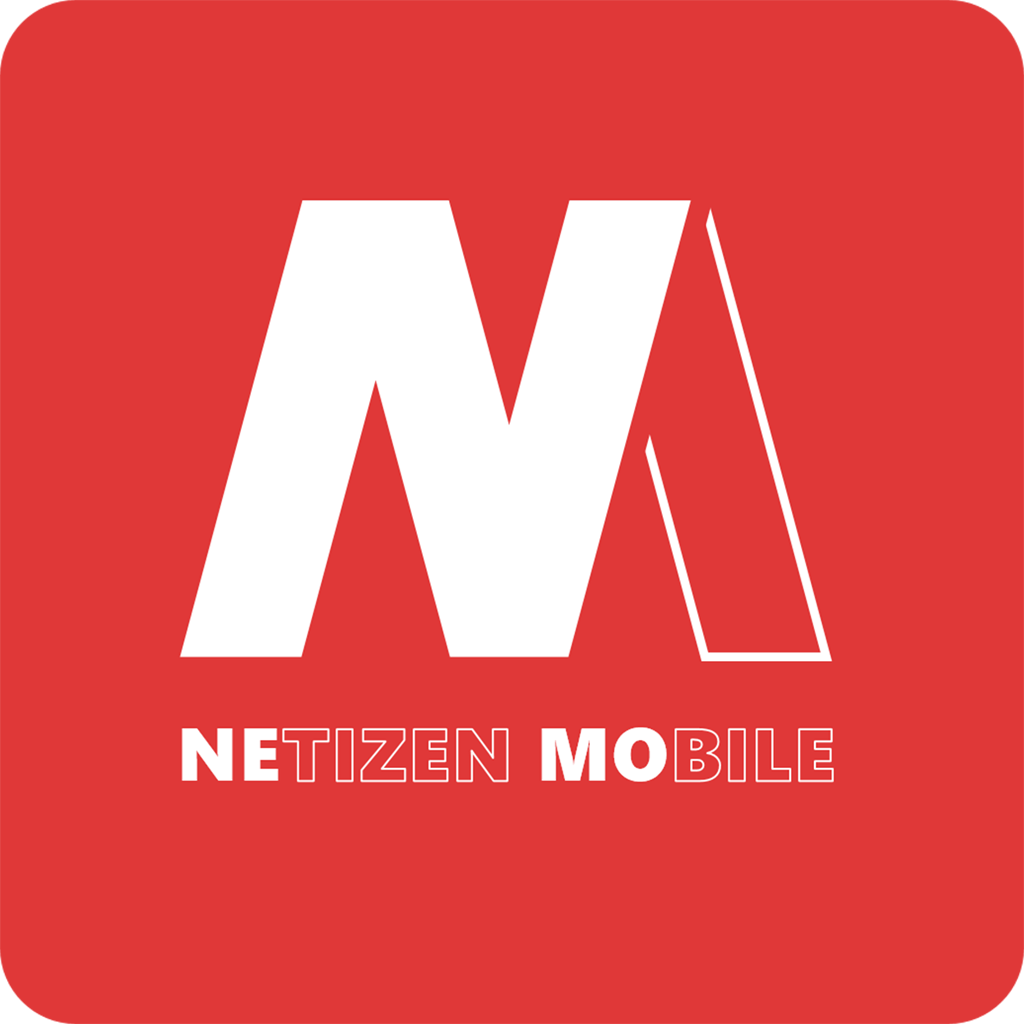
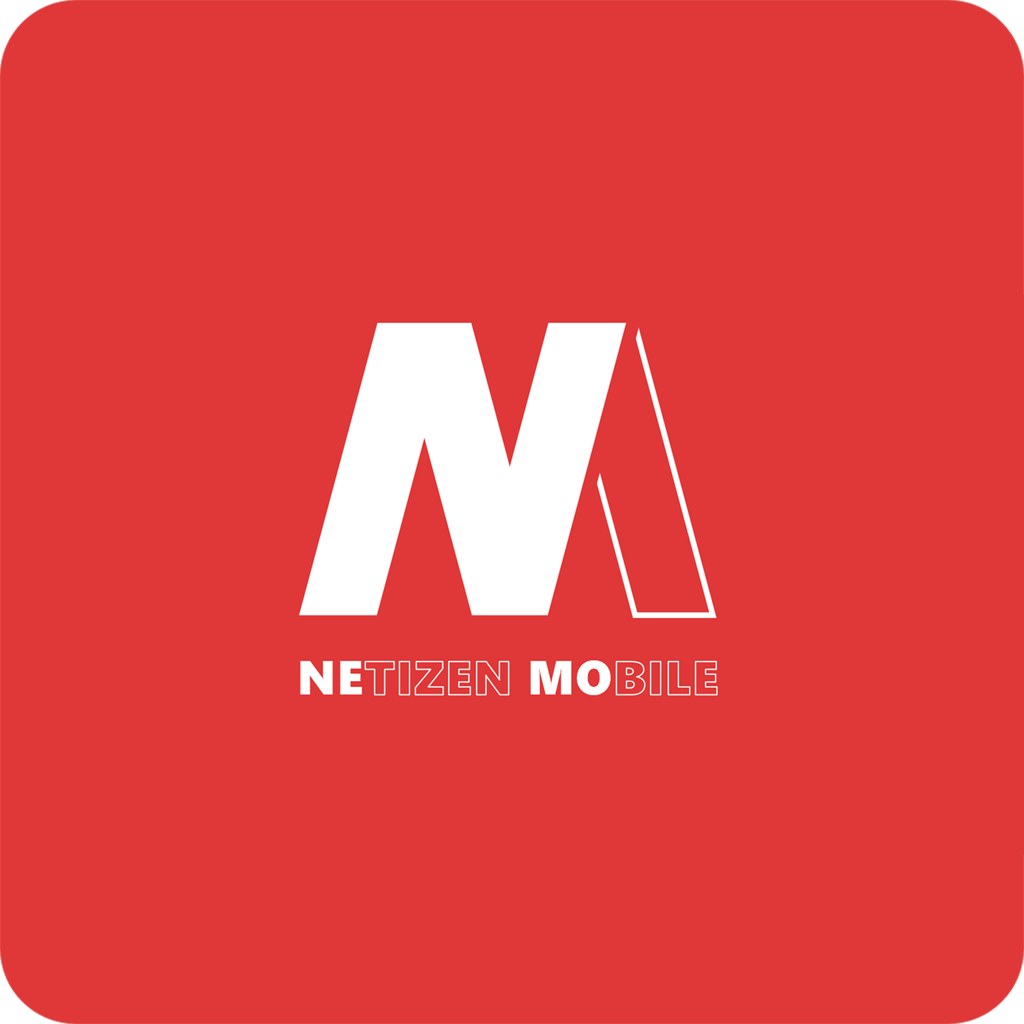
sdsd

Changed region(s): [[0.1562, 0.1875, 0.8125, 0.7812]]

diff --git a/android/app/src/main/java/com/netizenkorea/android/MainActivity.kt b/android/app/src/main/java/com/netizenkorea/android/MainActivity.kt
@@ -1,10 +1,19 @@
 package com.netizenkorea.android
 import expo.modules.splashscreen.SplashScreenManager
 
-import android.os.Build
 import android.os.Bundle
+import android.os.Handler
+import android.os.Looper
+import android.view.View
+import android.view.ViewTreeObserver
+import android.view.WindowManager
+import android.widget.ImageView
+import android.widget.FrameLayout
+import androidx.appcompat.app.AppCompatActivity
+import android.os.Build
 
 import com.facebook.react.ReactActivity
+import com.facebook.react.ReactRootView
 import com.facebook.react.ReactActivityDelegate
 import com.facebook.react.defaults.DefaultNewArchitectureEntryPoint.fabricEnabled
 import com.facebook.react.defaults.DefaultReactActivityDelegate
@@ -12,15 +21,40 @@ import com.facebook.react.defaults.DefaultReactActivityDelegate
 import expo.modules.ReactActivityDelegateWrapper
 
 class MainActivity : ReactActivity() {
+
+  private var splashOverlay: ImageView? = null
+
   override fun onCreate(savedInstanceState: Bundle?) {
-    // Set the theme to AppTheme BEFORE onCreate to support
-    // coloring the background, status bar, and navigation bar.
-    // This is required for expo-splash-screen.
-    // setTheme(R.style.AppTheme);
-    // @generated begin expo-splashscreen - expo prebuild (DO NOT MODIFY) sync-f3ff59a738c56c9a6119210cb55f0b613eb8b6af
-    SplashScreenManager.registerOnActivity(this)
-    // @generated end expo-splashscreen
     super.onCreate(null)
+  }
+
+  override fun onContentChanged() {
+    super.onContentChanged()
+
+    try {
+        val rootView = findViewById<FrameLayout>(android.R.id.content)
+        val context = this
+
+        splashOverlay = ImageView(context).apply {
+            setImageResource(R.drawable.splash2) // res/drawable 에 splash2.png
+            scaleType = ImageView.ScaleType.CENTER_CROP
+            layoutParams = FrameLayout.LayoutParams(
+                FrameLayout.LayoutParams.MATCH_PARENT,
+                FrameLayout.LayoutParams.MATCH_PARENT
+            )
+        }
+
+        rootView.addView(splashOverlay)
+
+        Handler(Looper.getMainLooper()).postDelayed({
+            splashOverlay?.let { overlay ->
+                rootView.removeView(overlay)
+            }
+            splashOverlay = null
+        }, 2000)
+    } catch (e: Exception) {
+        e.printStackTrace()
+    }
   }
 
   /**
